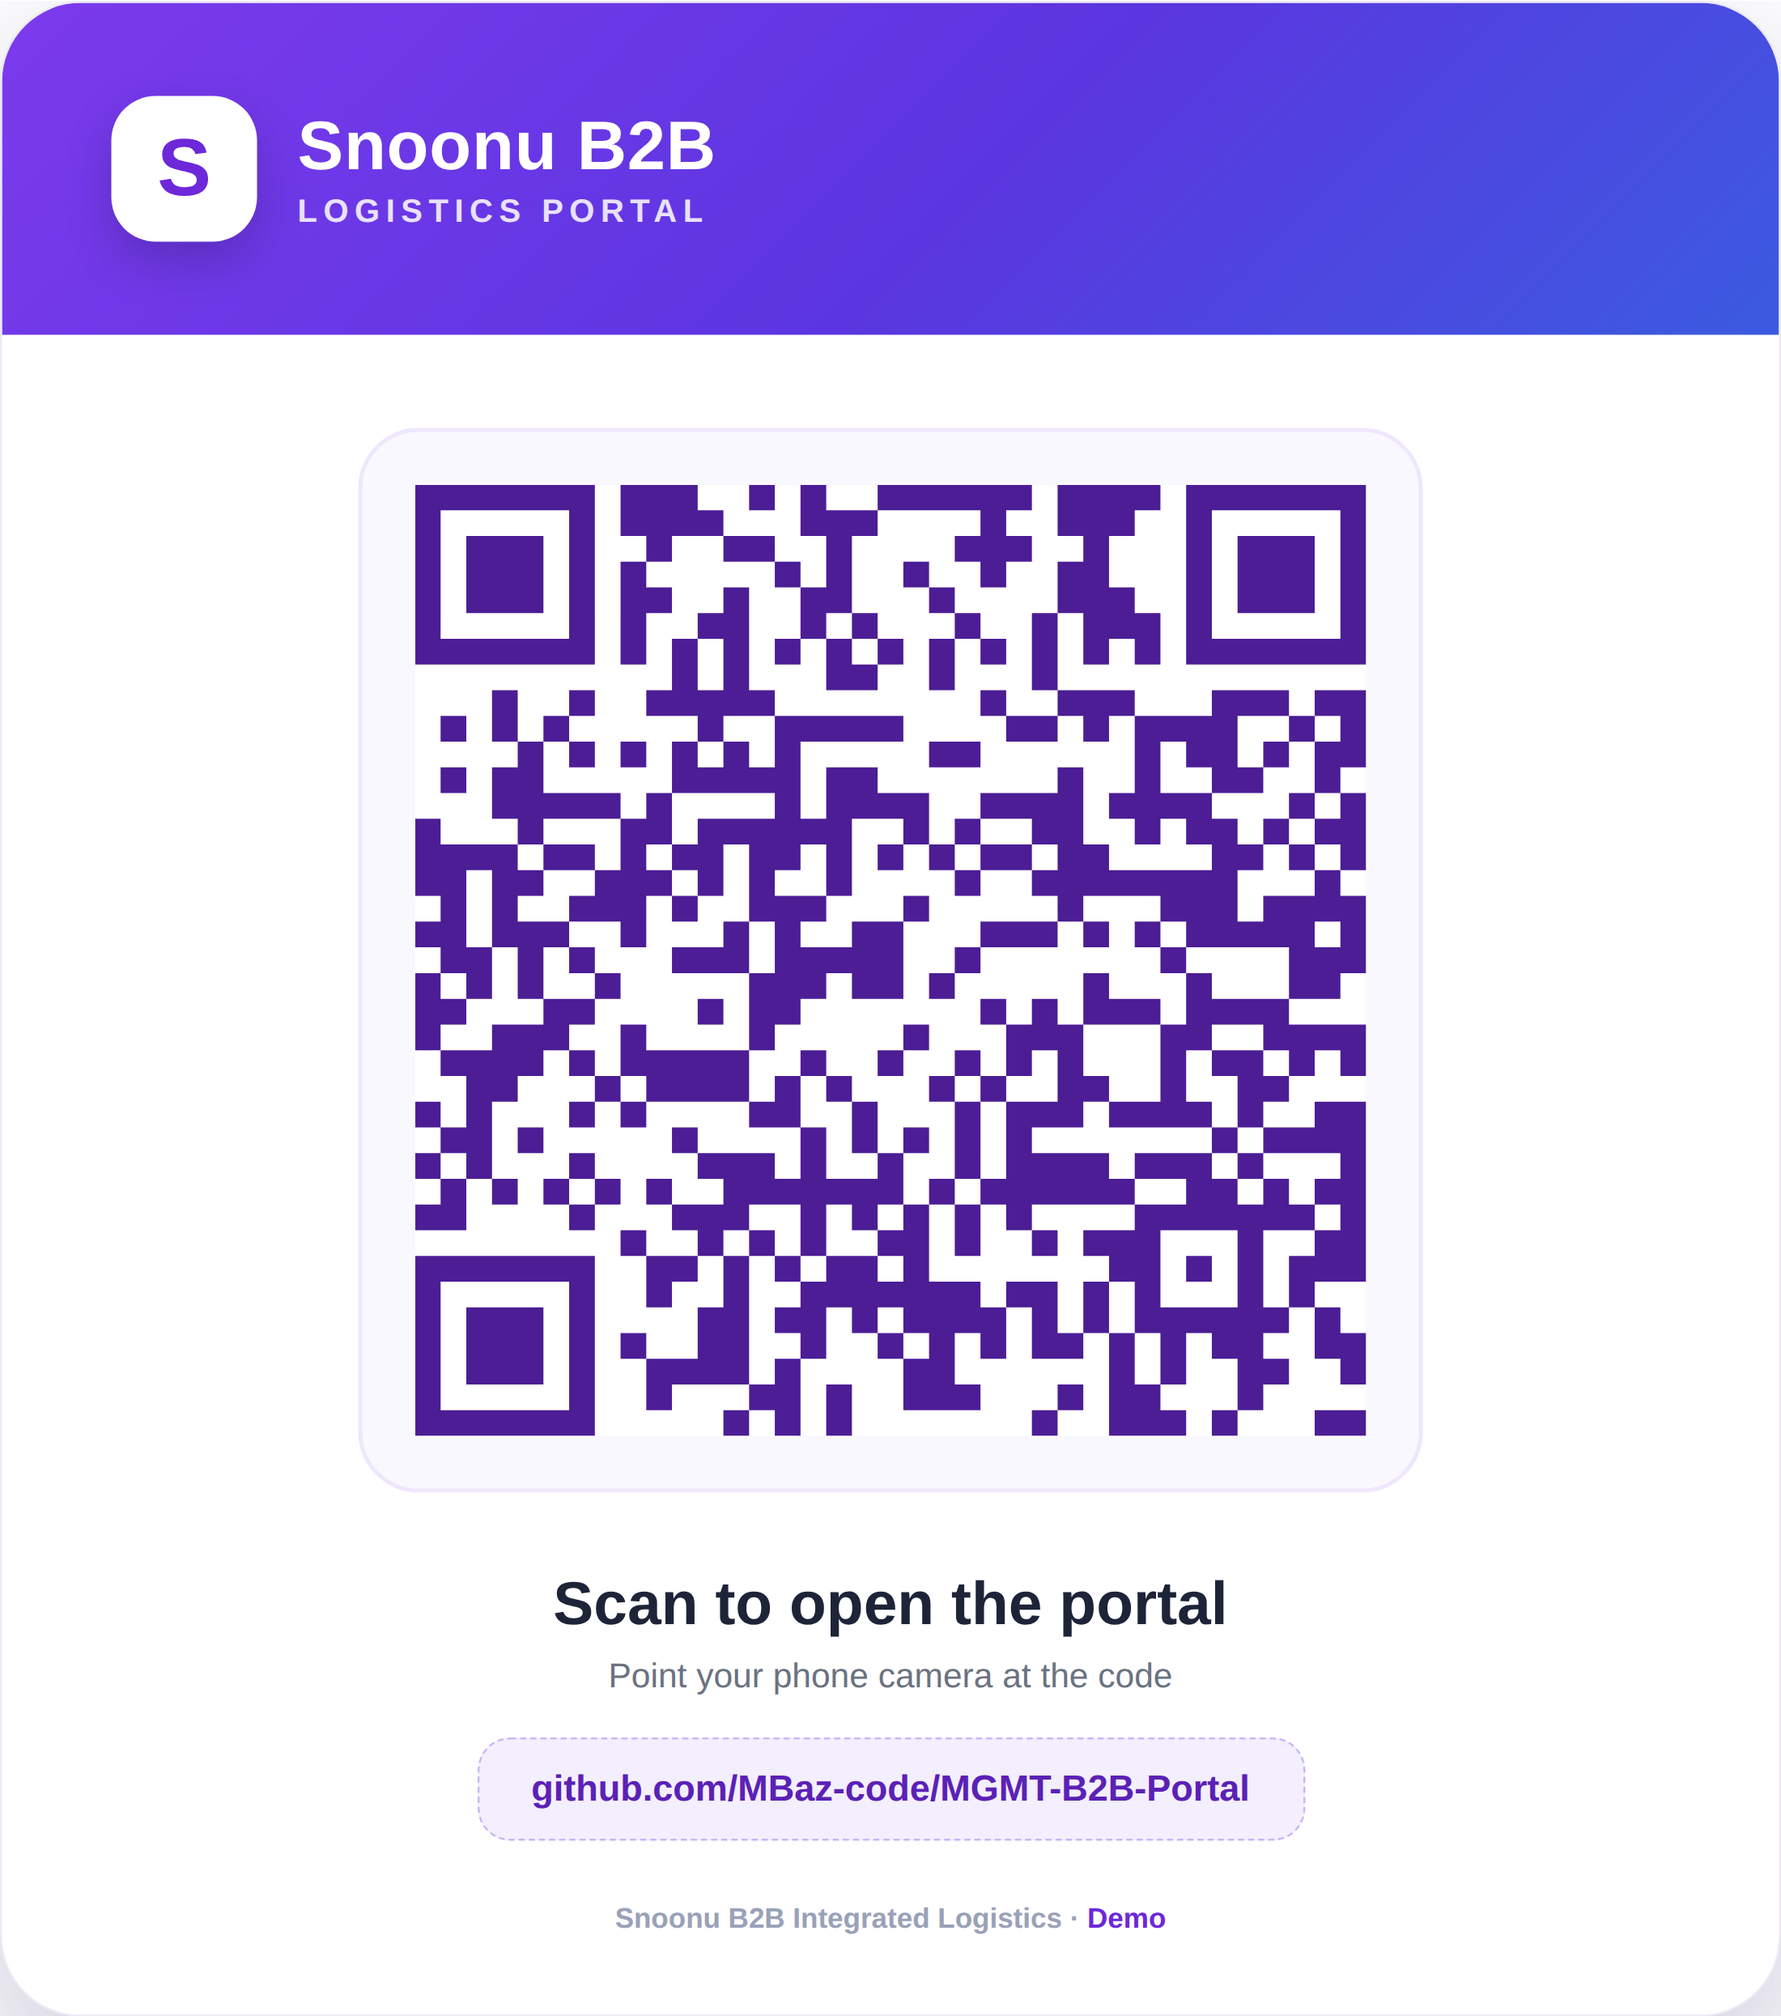
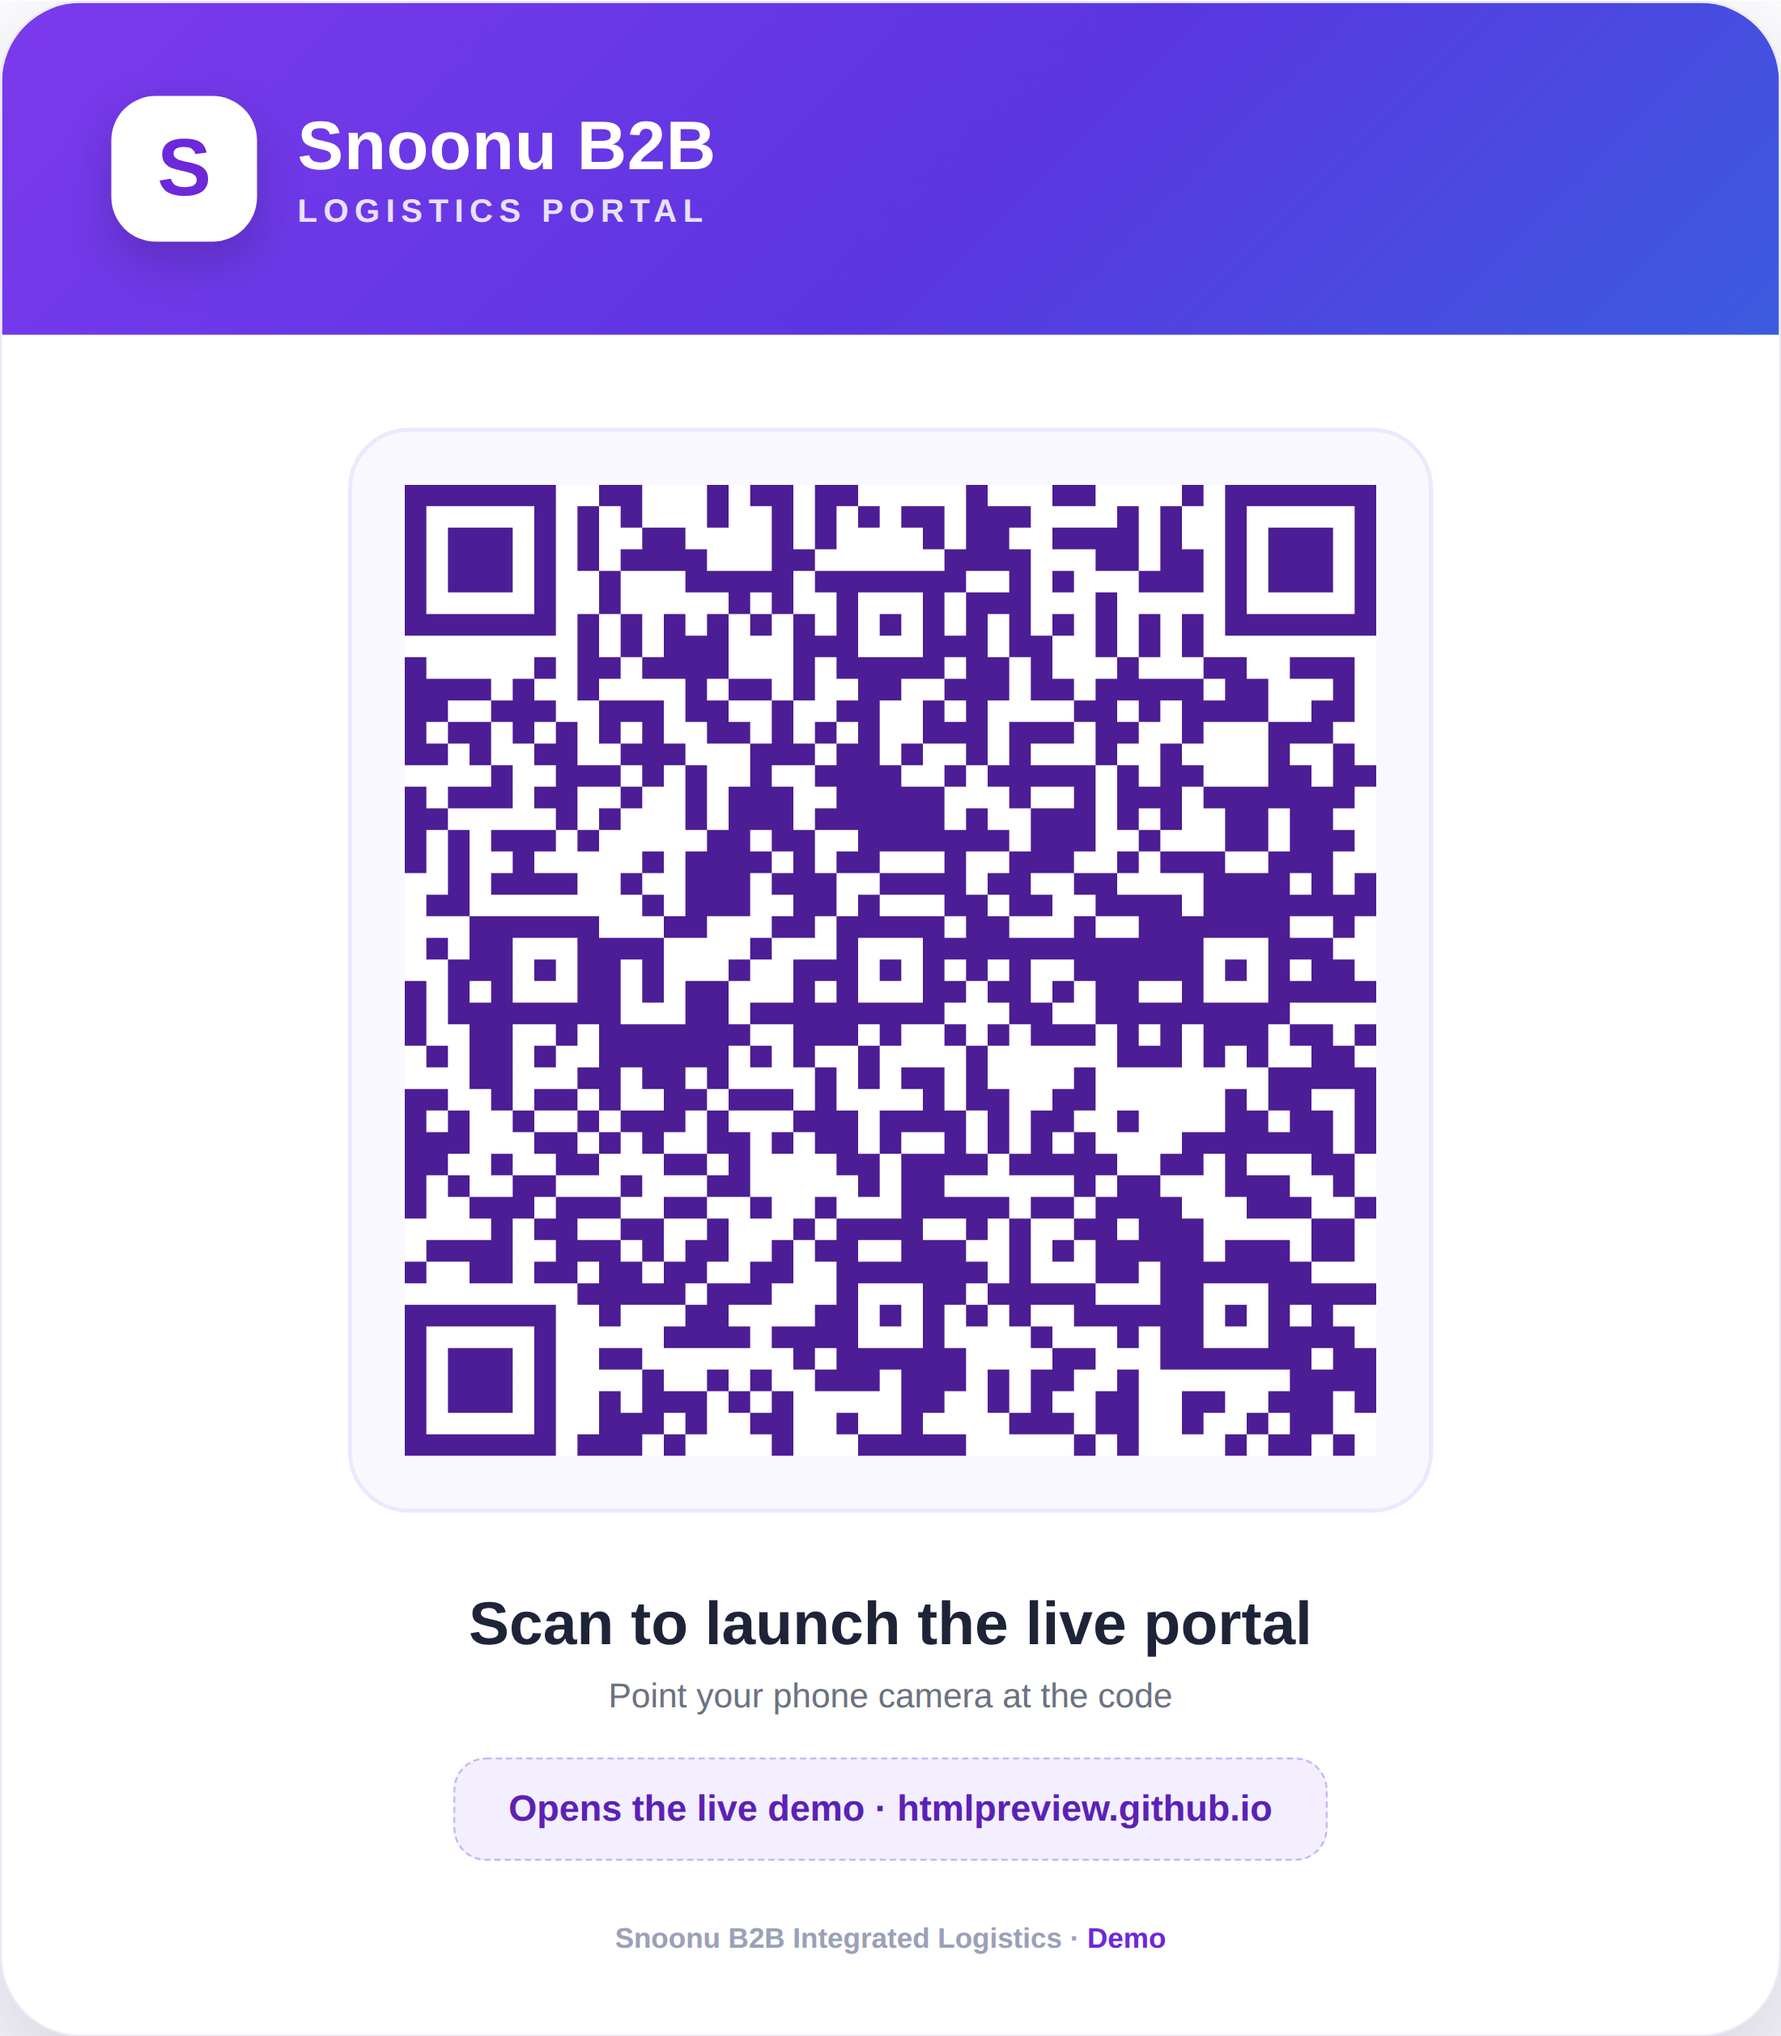
Repoint QR codes to the live htmlpreview portal link
QR codes now open the rendered portal via htmlpreview.github.io instead of
the repository page:

https://htmlpreview.github.io/?https://github.com/MBaz-code/MGMT-B2B-Portal/blob/claude/hopeful-johnson-mh7hfi/index.html

Regenerated all three assets at error-correction level M (version 7) to
keep the longer URL compact and easy to scan; both PNGs verified to decode
back to the exact URL.

Claude-Session: https://claude.ai/code/session_0198w235kuhMS1b8JC1MqkEV

diff --git a/README.md b/README.md
@@ -34,10 +34,14 @@ dependencies — everything (HTML, CSS, JavaScript) lives in the one file.
 
 *All data is simulated for demonstration purposes.*
 
-## QR code (scan to open the repo)
+## QR code (scan to open the live portal)
 
-Ready-to-use QR codes that open `https://github.com/MBaz-code/MGMT-B2B-Portal`
-when scanned (verified to decode correctly):
+Ready-to-use QR codes that open the **rendered portal** (via htmlpreview) when
+scanned — verified to decode correctly:
+
+```
+https://htmlpreview.github.io/?https://github.com/MBaz-code/MGMT-B2B-Portal/blob/claude/hopeful-johnson-mh7hfi/index.html
+```
 
 | File | Use |
 |------|-----|
@@ -45,6 +49,6 @@ when scanned (verified to decode correctly):
 | `assets/snoonu-b2b-qr.png` | Plain high-contrast QR (most universally scannable) |
 | `assets/snoonu-b2b-qr.svg` | Vector version — scales to any size for print |
 
-> Generated at error-correction level **H** (~30% damage tolerance) so they stay
-> reliable on screens and in print.
+> Error-correction level **M** (QR version 7) — kept compact so it scans easily
+> from a projected slide. *htmlpreview requires the repository to be public.*
 
